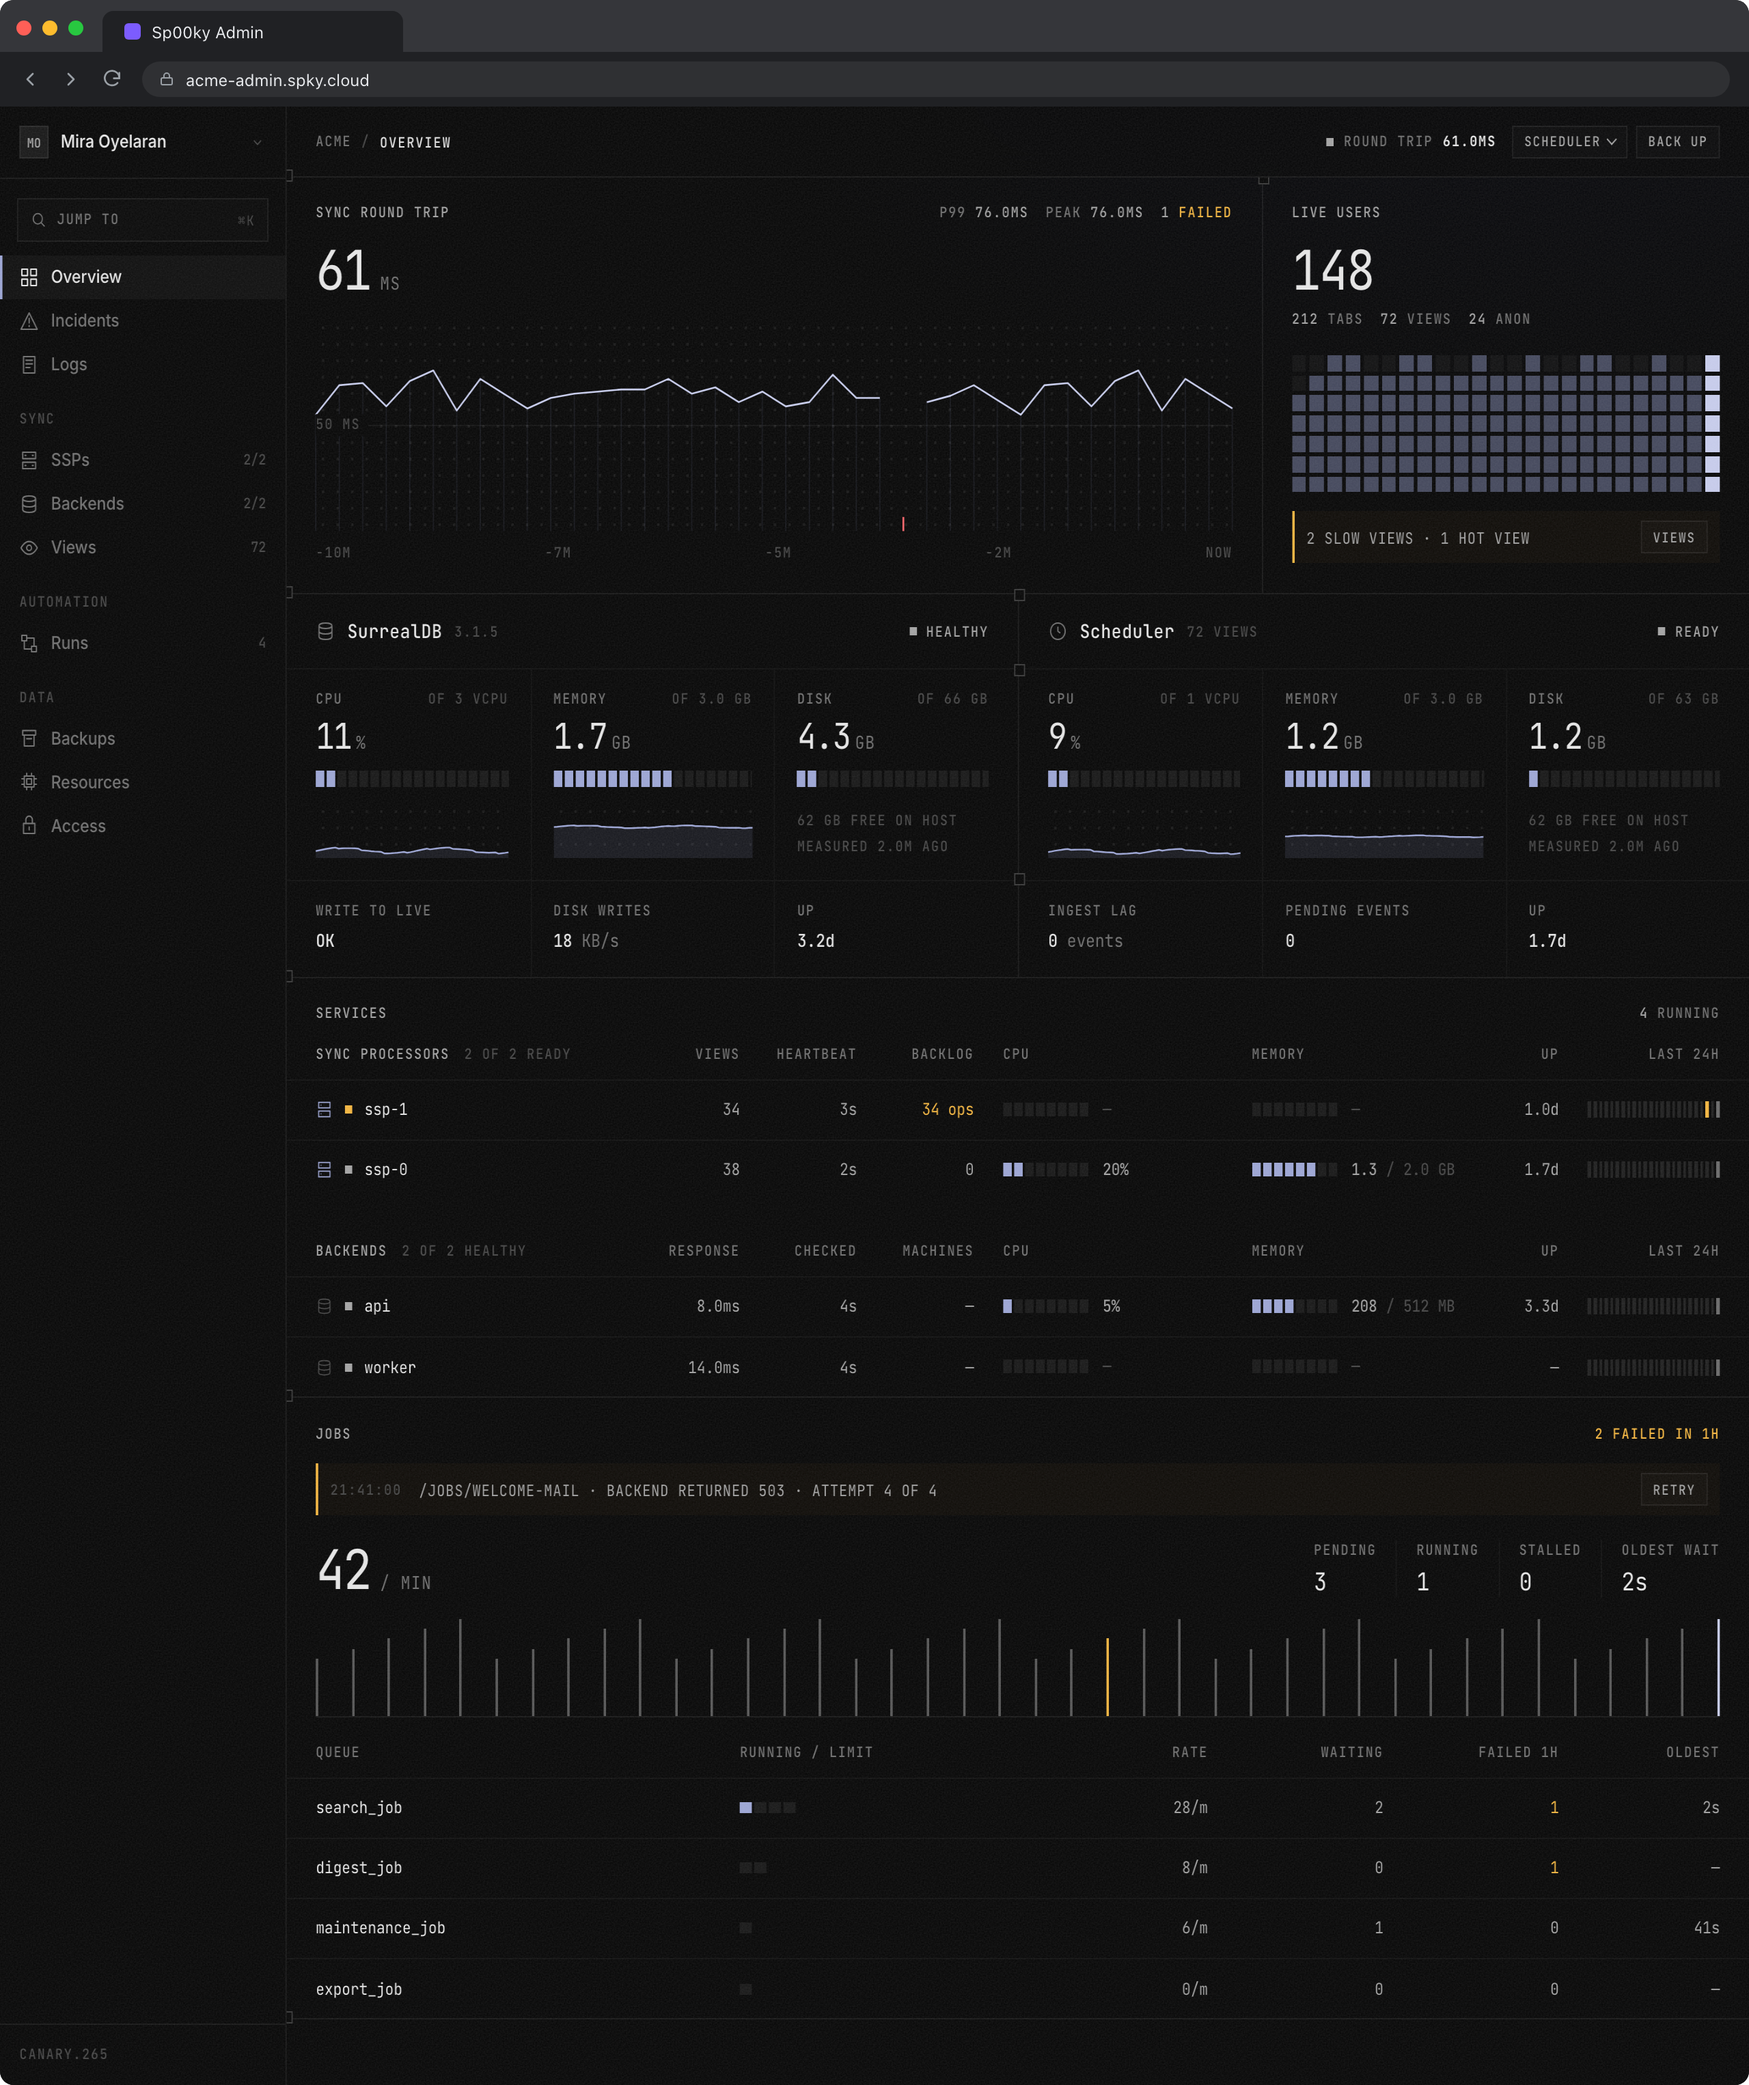
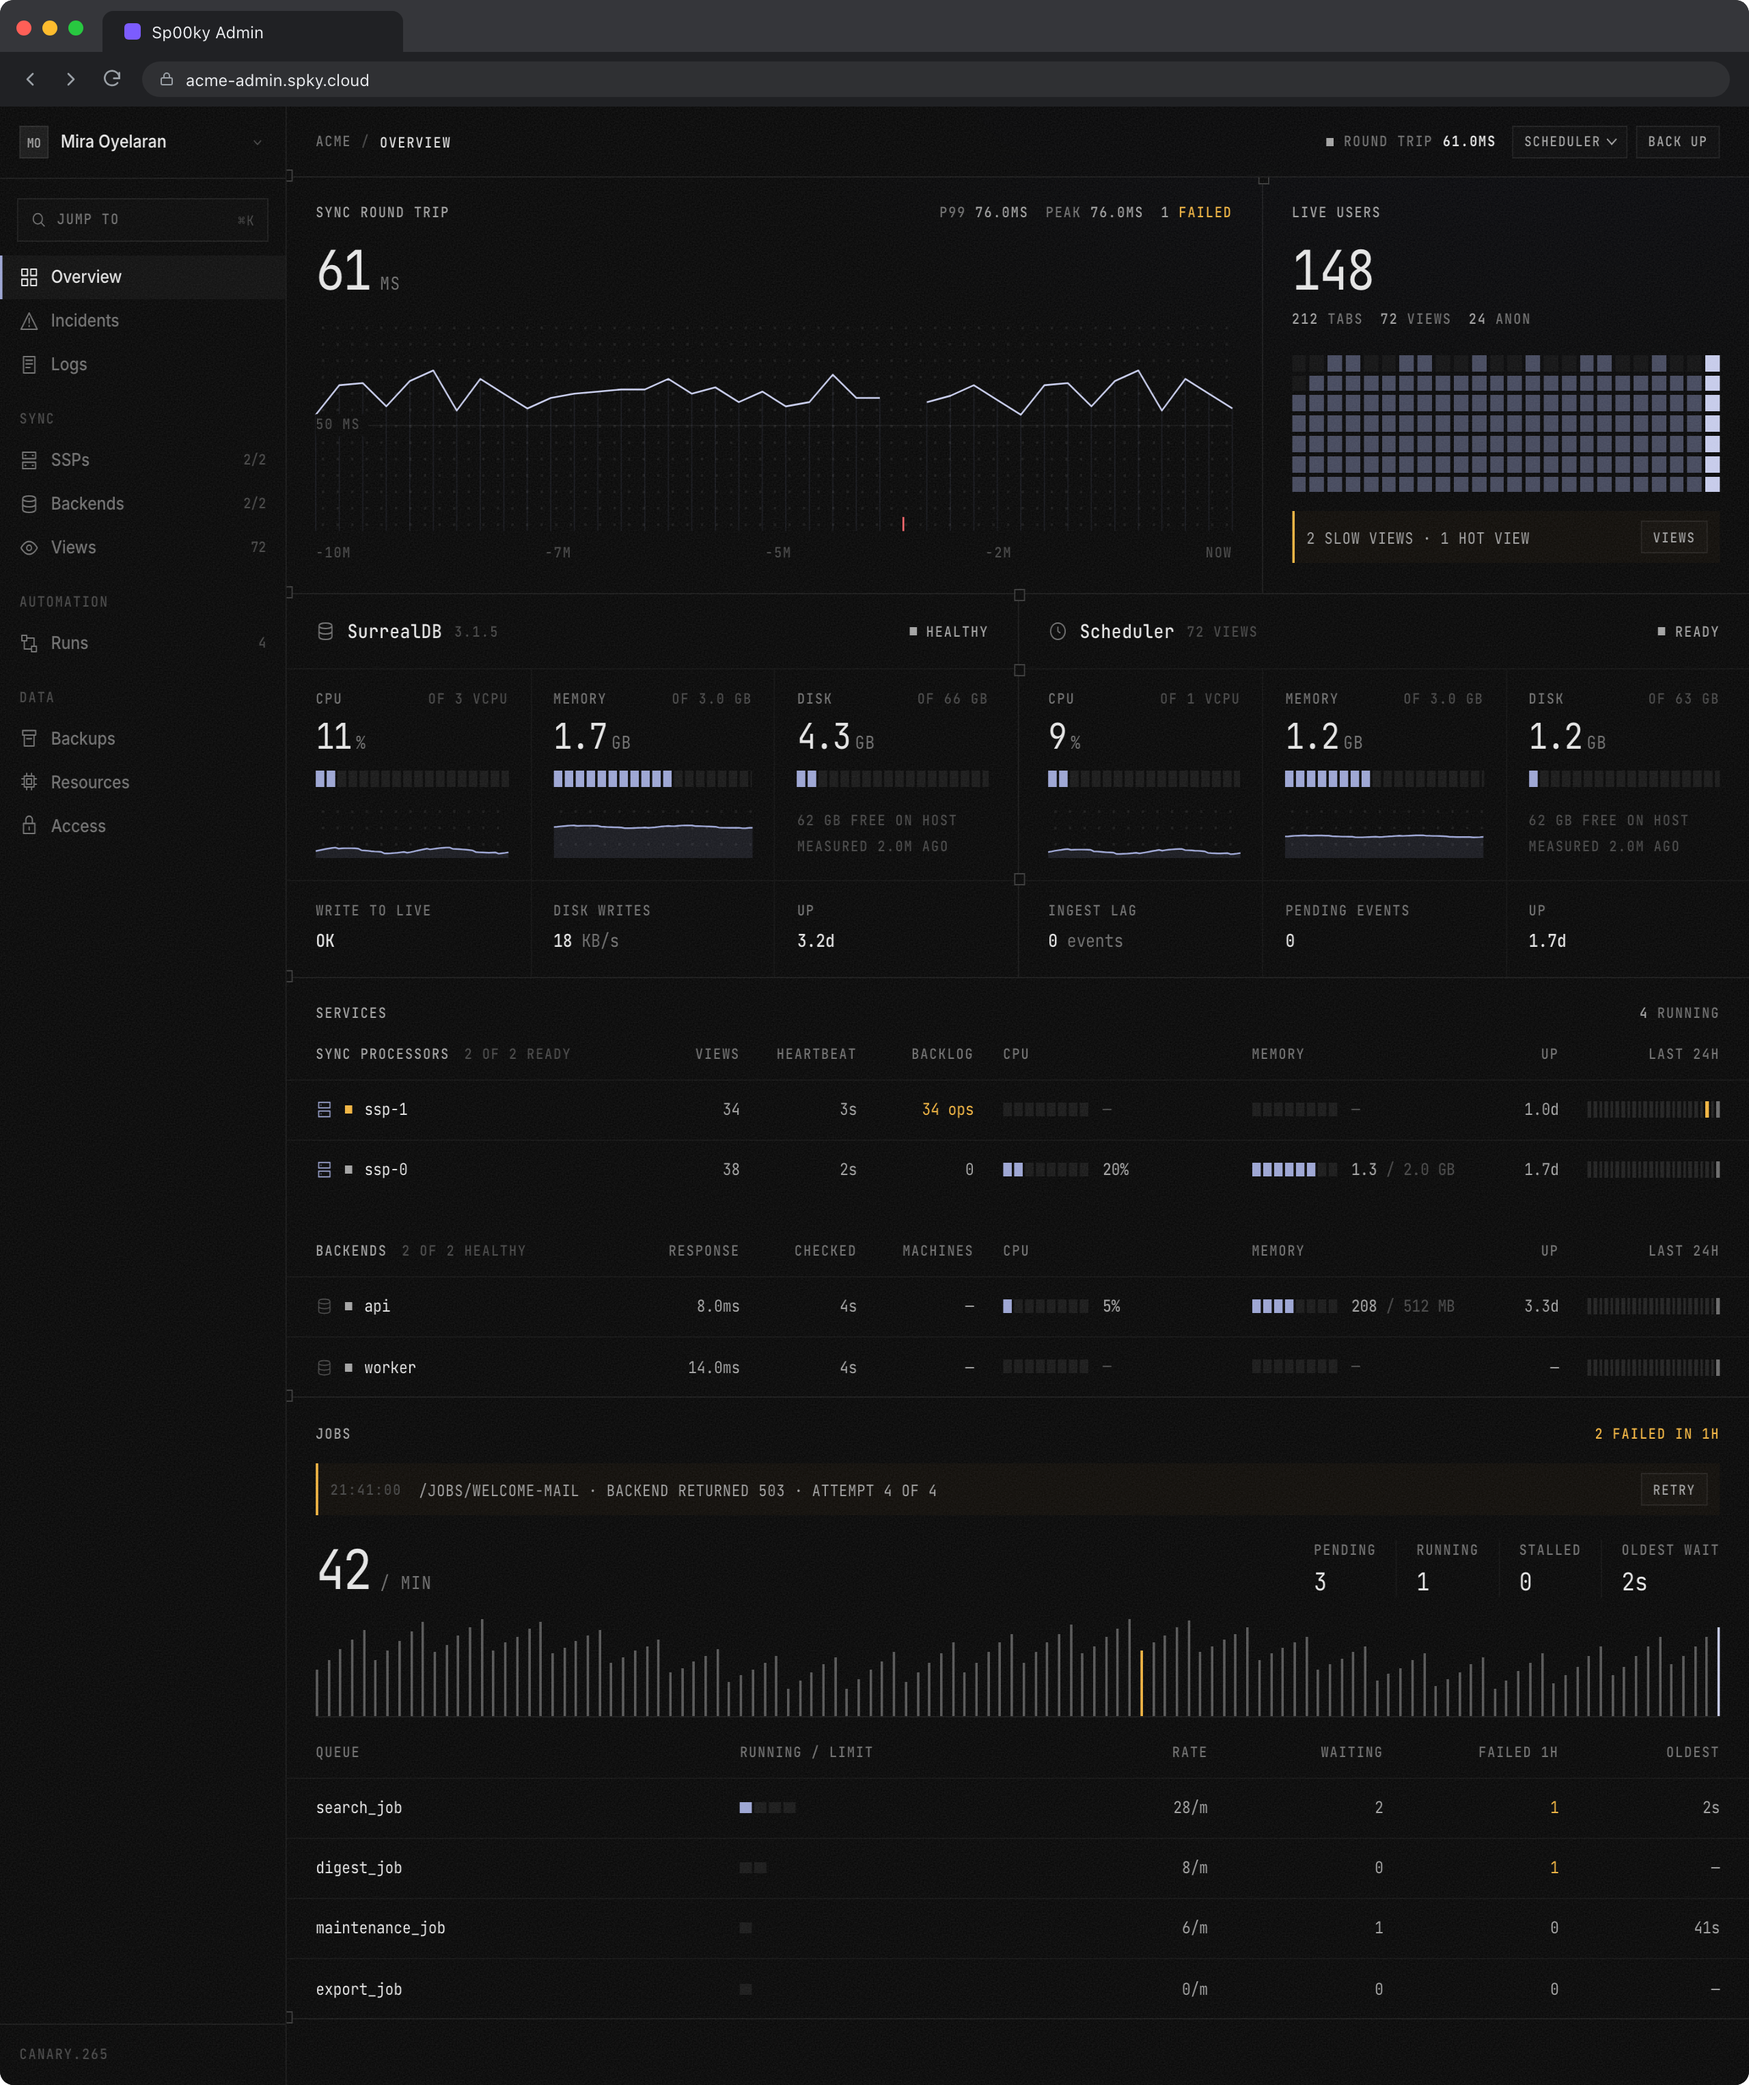
fix(dashboard): job strips stay in their cell, one per figure on Runs
The Done cell's per-minute strip drew one 1px bar per sample with a
fixed 3px gap. The scheduler keeps 120 samples (an hour), which takes
about 480px, so on a real deployment the strip ran across the Failed
cell next to it. The fixture had 40 samples and hid it.

Barcode now averages samples into at most `max` bars (48 by default;
the Overview's full-width strip keeps all 120), warns or fails a bucket
if any sample in it does, and clips as a backstop. On Runs every figure
has its hour as a strip: running, waiting, done per minute, and failed
in red. The fixture holds a full ring.

Changed region(s): [[0.1875, 0.7782, 0.9688, 0.8404]]

diff --git a/apps/dashboard/src/routes/Runs.tsx b/apps/dashboard/src/routes/Runs.tsx
@@ -334,6 +334,8 @@ export function Runs() {
     [...(history()?.[name] ?? [])].sort((a, b) => (a.fire_at ?? a.created_at ?? '').localeCompare(b.fire_at ?? b.created_at ?? '')).slice(-12);
 
   const totals = () => jobs.page()?.totals;
+  /** The sampler's last hour, one point per sample, behind every figure's strip. */
+  const samples = () => totals()?.samples ?? [];
   const failedRuns = () => wf.runs().filter((r) => r.status === 'failed' && (time(r.finished_at) ?? 0) > now() - 3_600_000).length;
   const tables = () => jobs.page()?.tables ?? [];
 
@@ -369,14 +371,17 @@ export function Runs() {
               <span><b>{count((i) => i.kind === 'job' && i.status === 'running')}</b> jobs</span>
               <Show when={totals()?.stalled}><span class="warn"><b>{totals()!.stalled}</b> stalled</span></Show>
             </div>
+            <Barcode values={samples().map((x) => x.processing)} />
           </FxCell>
           <FxCell label="Waiting">
             <div class="fx-big">{totals() ? formatCount(totals()!.counts.pending) : '—'}</div>
             <div class="fx-sub cap"><span>oldest <b>{ago(time(totals()?.oldest_pending))}</b></span></div>
+            <Barcode values={samples().map((x) => x.pending)} />
           </FxCell>
           <FxCell label="Done" meta={<span>per minute</span>}>
             <div class="fx-big">{totals() ? formatCount(totals()!.throughput_1m) : '—'}</div>
-            <Barcode values={(totals()?.samples ?? []).map((x) => x.throughput_1m)} />
+            <div class="fx-sub cap"><span><b>{totals() ? formatCount(totals()!.counts.success) : '—'}</b> in the last hour</span></div>
+            <Barcode values={samples().map((x) => x.throughput_1m)} />
           </FxCell>
           <FxCell label="Failed" meta={<span>last hour</span>}>
             <div class="fx-big">
@@ -389,6 +394,7 @@ export function Runs() {
                 <button class="fx-link cap" onClick={() => setFilters({ status: ['failed'] })}>show</button>
               </Show>
             </div>
+            <Barcode values={samples().map((x) => x.failed)} bad={samples().map((x) => x.failed > 0)} />
           </FxCell>
         </section>
 

diff --git a/apps/dashboard/src/components/Frame.tsx b/apps/dashboard/src/components/Frame.tsx
@@ -403,15 +403,43 @@ export function Matrix(props: { values: number[]; columns?: number }) {
 }
 
 /** One thin bar per sample; `warn` marks the samples where something failed. */
-export function Barcode(props: { values: number[]; warn?: boolean[] }) {
-  const hi = () => Math.max(1, ...props.values);
+/** The most bars a barcode draws by default: a quarter-width cell fits them. */
+const BARCODE_MAX = 48;
+
+/**
+ * A run of samples as thin bars, newest right. More samples than fit (the job
+ * sampler keeps an hour) are averaged into `max` buckets, and a bucket with
+ * any warning in it warns, so the strip always stays inside its cell. A
+ * full-width cell can take every sample.
+ */
+export function Barcode(props: { values: number[]; warn?: boolean[]; bad?: boolean[]; max?: number }) {
+  const bars = createMemo(() => {
+    const v = props.values;
+    const per = Math.max(1, Math.ceil(v.length / (props.max ?? BARCODE_MAX)));
+    const out: { v: number; warn: boolean; bad: boolean }[] = [];
+    // Bucketed from the newest end, so the last bar is always "now".
+    for (let end = v.length; end > 0; end -= per) {
+      const start = Math.max(0, end - per);
+      let sum = 0;
+      let warn = false;
+      let bad = false;
+      for (let i = start; i < end; i++) {
+        sum += v[i]!;
+        warn ||= !!props.warn?.[i];
+        bad ||= !!props.bad?.[i];
+      }
+      out.unshift({ v: sum / (end - start), warn, bad });
+    }
+    return out;
+  });
+  const hi = () => Math.max(1, ...bars().map((b) => b.v));
   return (
     <div class="fx-barcode" aria-hidden="true">
-      <For each={props.values}>
-        {(v, i) => (
+      <For each={bars()}>
+        {(b, i) => (
           <i
-            classList={{ warn: !!props.warn?.[i()], now: i() === props.values.length - 1 }}
-            style={{ height: `${Math.max(4, (v / hi()) * 100)}%` }}
+            classList={{ warn: b.warn, bad: b.bad, now: i() === bars().length - 1 }}
+            style={{ height: `${Math.max(4, (b.v / hi()) * 100)}%` }}
           />
         )}
       </For>

diff --git a/apps/dashboard/src/styles/frame.css b/apps/dashboard/src/styles/frame.css
@@ -1170,8 +1170,9 @@ tbody tr:hover > td {
   display: flex;
   align-items: flex-end;
   justify-content: space-between;
-  gap: 3px;
+  gap: 1px;
   height: 72px;
+  overflow: hidden;
   margin-top: 16px;
   border-bottom: 1px solid var(--line);
 }
@@ -1187,8 +1188,20 @@ tbody tr:hover > td {
   background: var(--warn);
 }
 
+.fx-barcode i.bad {
+  background: var(--bad);
+  opacity: 0.7;
+}
+
+
 .fx-barcode i.now {
   background: var(--accent-strong);
+}
+
+/* the newest failing bar stays red, at full strength */
+.fx-barcode i.bad.now {
+  background: var(--bad);
+  opacity: 1;
 }
 
 /* a big figure with its parts beside it */

diff --git a/apps/dashboard/src/routes/Overview.tsx b/apps/dashboard/src/routes/Overview.tsx
@@ -582,6 +582,7 @@ export function Overview(props: {
               </div>
 
               <Barcode
+                max={120}
                 values={jobSamples().map((s) => s.throughput_1m)}
                 warn={jobSamples().map((s, i) => s.failed > (jobSamples()[i - 1]?.failed ?? 0))}
               />
